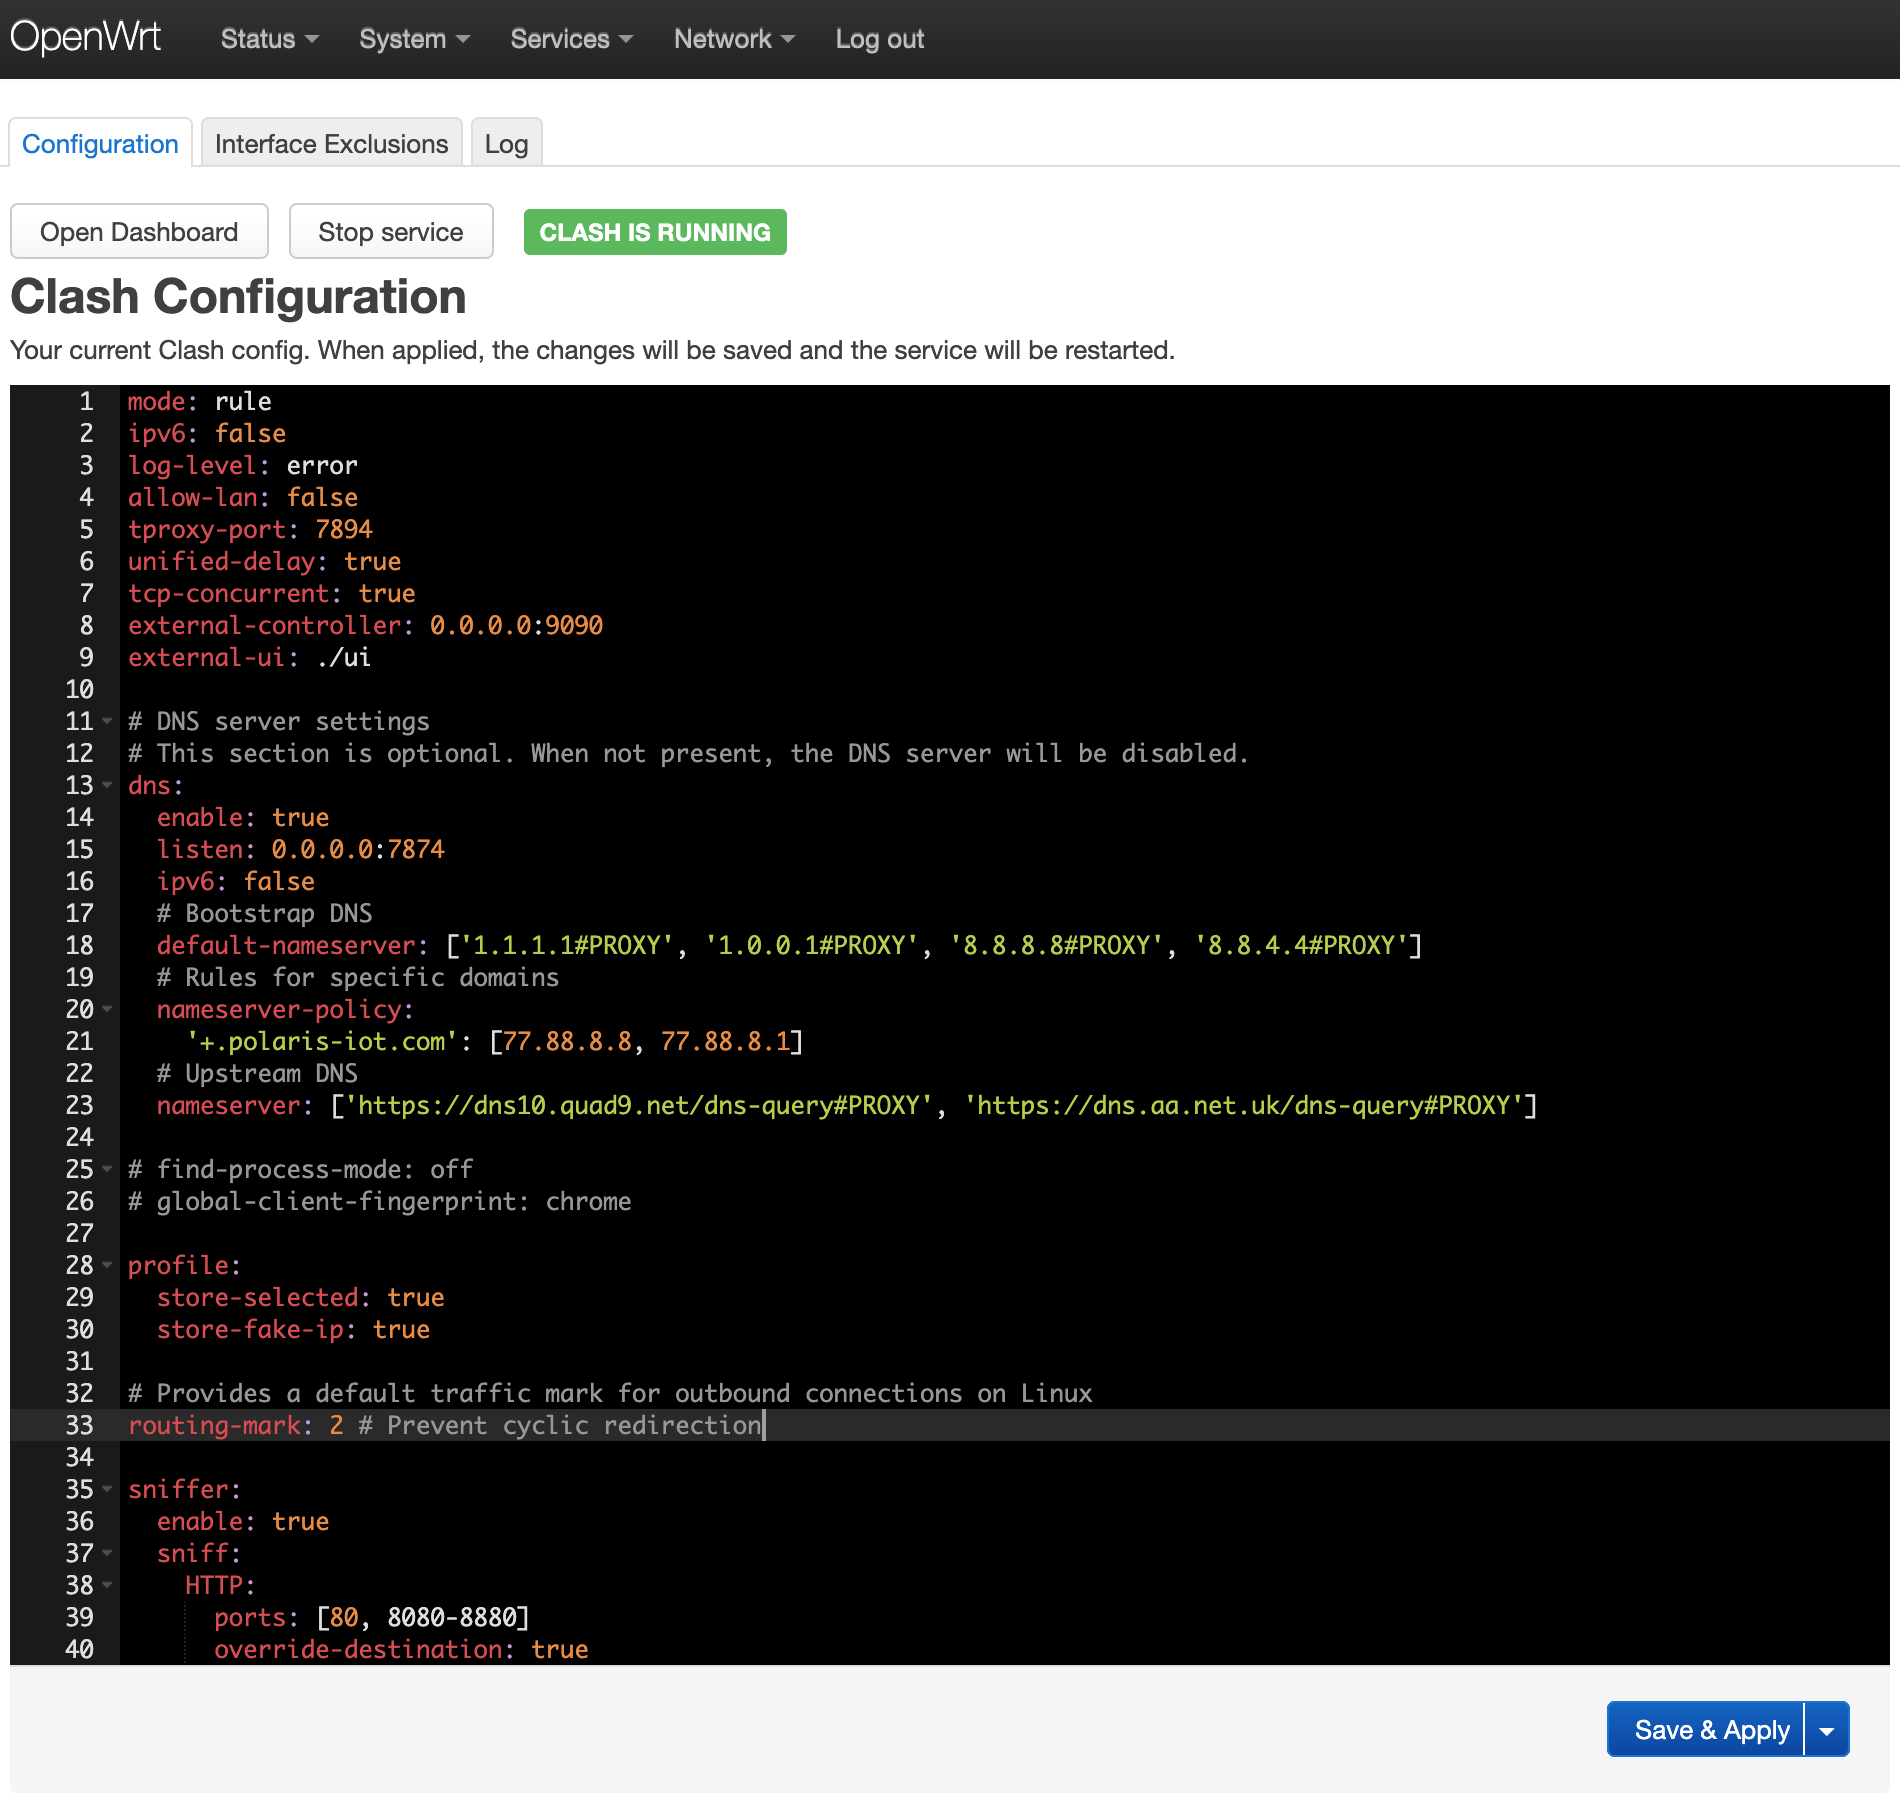
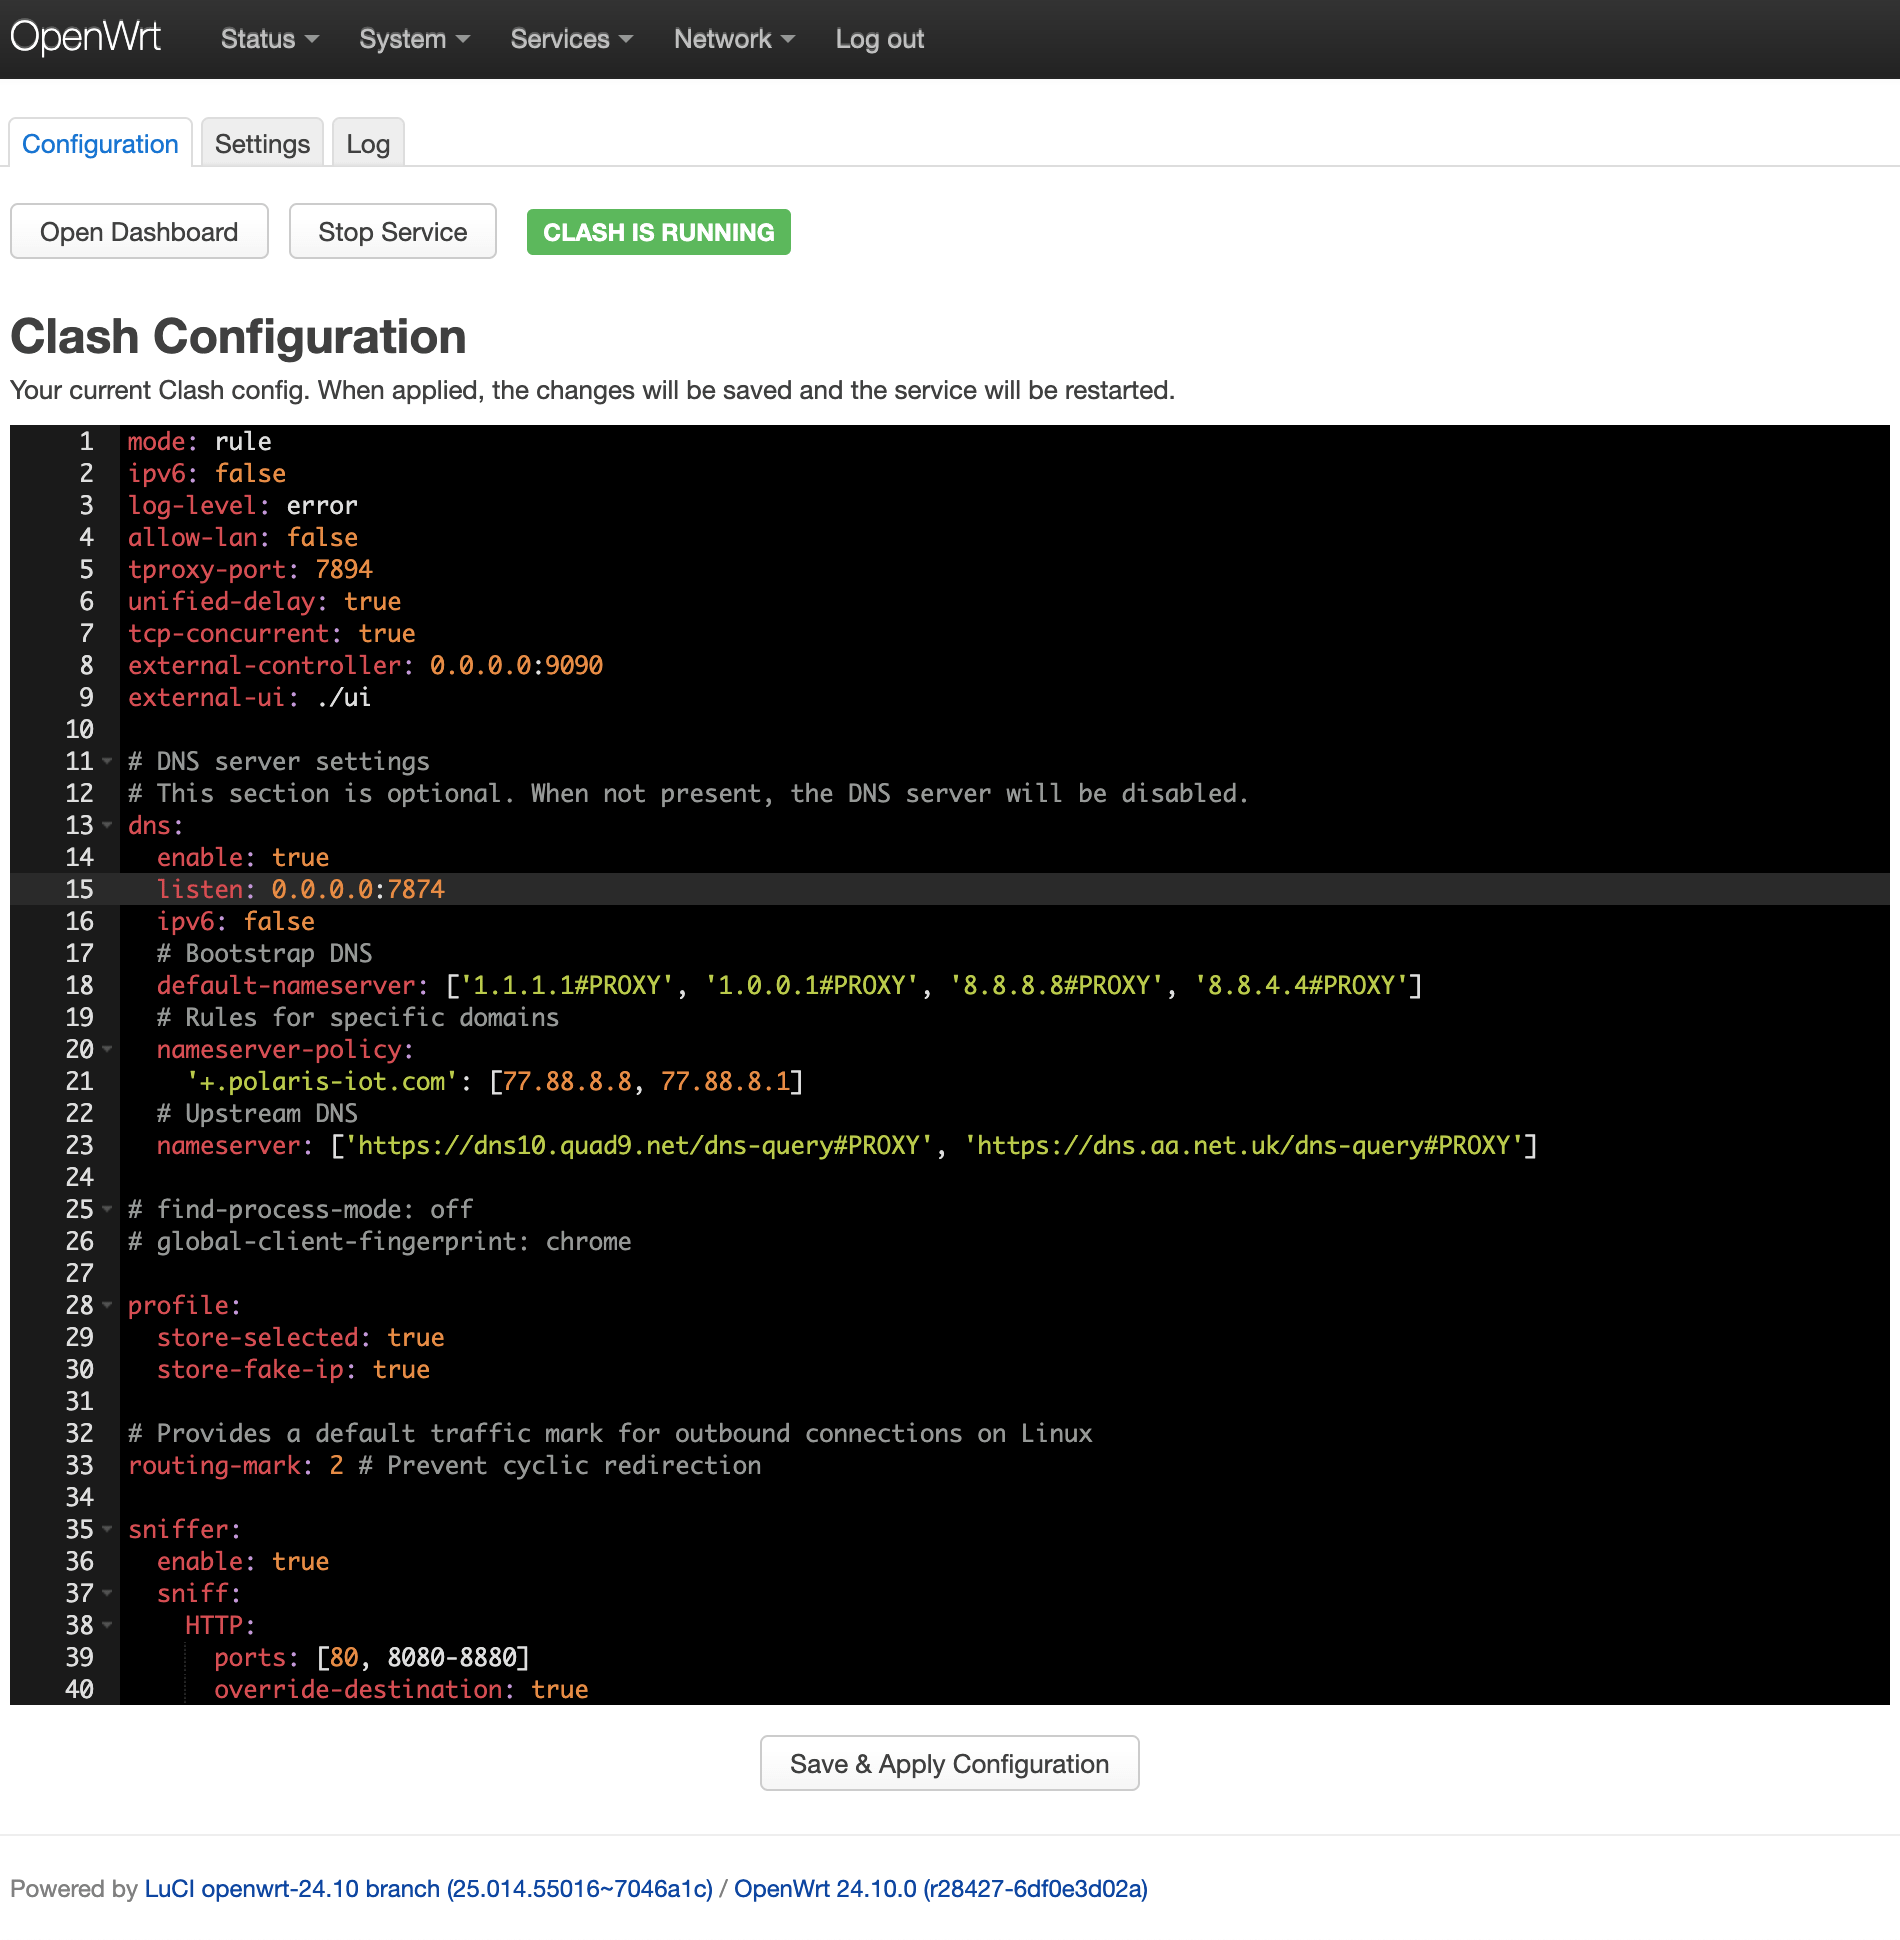
Some UI improvements

Changed region(s): [[0.0, 0.0, 1.0, 0.9933], [0.0, 0.9623, 0.59, 0.9933]]

diff --git a/rootfs/www/luci-static/resources/view/ssclash/config.js b/rootfs/www/luci-static/resources/view/ssclash/config.js
@@ -158,7 +158,7 @@ return view.extend({
                 'id': 'editor',
                 'style': 'width: 100%; height: 640px; margin-bottom: 15px;'
             }),
-            E('div', { 'style': 'text-align: center; margin-top: 15px;' }, [
+            E('div', { 'style': 'text-align: center; margin-top: 15px; margin-bottom: 20px;' }, [
                 E('button', {
                     'class': 'btn',
                     'click': saveAndApply
